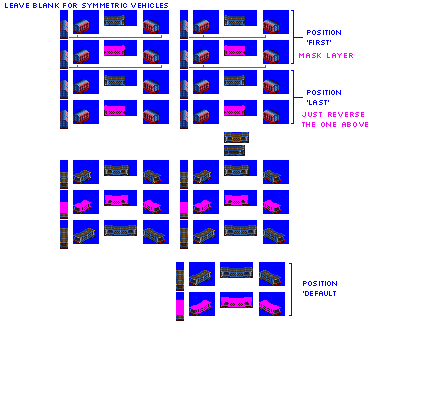
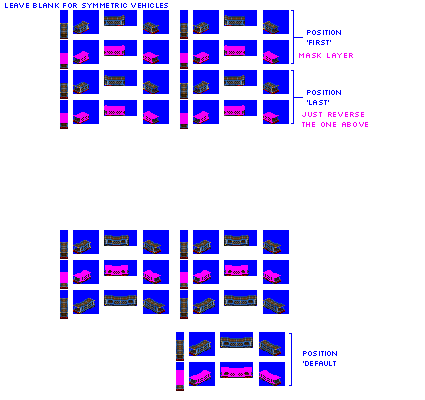
Change: sprites done (loads aren't) for type D automobile cars

diff --git a/src/vehicles/pony/automobile_cars_pony.py b/src/vehicles/pony/automobile_cars_pony.py
@@ -82,6 +82,28 @@ def main(**kwargs):
 
     model_def = ModelDef(
         schema_name="AutomobileSingleDeckCar",
+        base_numeric_id=560,
+        gen=4,
+        subtype="D",
+        sprites_complete=False,
+    )
+
+    model_def.add_unit_def(
+        unit_cls_name="AutomobileCarAsymmetricUnit",
+        chassis="2_axle_filled_20px",
+        rel_spriterow_index=0,
+    )
+
+    model_def.add_unit_def(
+        unit_cls_name="AutomobileCarAsymmetricUnit",
+        chassis="2_axle_filled_20px",
+        rel_spriterow_index=1,
+    )
+
+    result.append(model_def)
+
+    model_def = ModelDef(
+        schema_name="AutomobileSingleDeckCar",
         base_numeric_id=35170,
         gen=5,
         subtype="B",
@@ -108,7 +130,7 @@ def main(**kwargs):
 
     result.append(model_def)
 
-    model_def =ModelDef(
+    model_def = ModelDef(
         schema_name="AutomobileSingleDeckCar",
         base_numeric_id=4940,
         gen=5,

diff --git a/src/vehicles/pony/double_deck_automobile_cars_pony.py b/src/vehicles/pony/double_deck_automobile_cars_pony.py
@@ -35,6 +35,28 @@ def main(**kwargs):
 
     result.append(model_def)
 
+    model_def =ModelDef(
+        schema_name="AutomobileDoubleDeckCar",
+        base_numeric_id=590,
+        gen=4,
+        subtype="D",
+        sprites_complete=False,
+    )
+
+    model_def.add_unit_def(
+        unit_cls_name="AutomobileCarAsymmetricUnit",
+        chassis="2_axle_running_gear_only_20px",
+        rel_spriterow_index=0,
+    )
+
+    model_def.add_unit_def(
+        unit_cls_name="AutomobileCarAsymmetricUnit",
+        chassis="2_axle_running_gear_only_20px",
+        rel_spriterow_index=1,
+    )
+
+    result.append(model_def)
+
     model_def = ModelDef(
         schema_name="AutomobileDoubleDeckCar",
         base_numeric_id=35090,

diff --git a/src/vehicles/pony/low_floor_automobile_cars_pony.py b/src/vehicles/pony/low_floor_automobile_cars_pony.py
@@ -36,6 +36,28 @@ def main(**kwargs):
 
     result.append(model_def)
 
+    model_def =ModelDef(
+        schema_name="AutomobileLowFloorCar",
+        base_numeric_id=540,
+        gen=4,
+        subtype="D",
+        sprites_complete=False,
+    )
+
+    model_def.add_unit_def(
+        unit_cls_name="AutomobileCarAsymmetricUnit",
+        chassis="2_axle_running_gear_only_20px",
+        rel_spriterow_index=0,
+    )
+
+    model_def.add_unit_def(
+        unit_cls_name="AutomobileCarAsymmetricUnit",
+        chassis="2_axle_running_gear_only_20px",
+        rel_spriterow_index=1,
+    )
+
+    result.append(model_def)
+
     model_def = ModelDef(
         schema_name="AutomobileLowFloorCar",
         base_numeric_id=26740,
